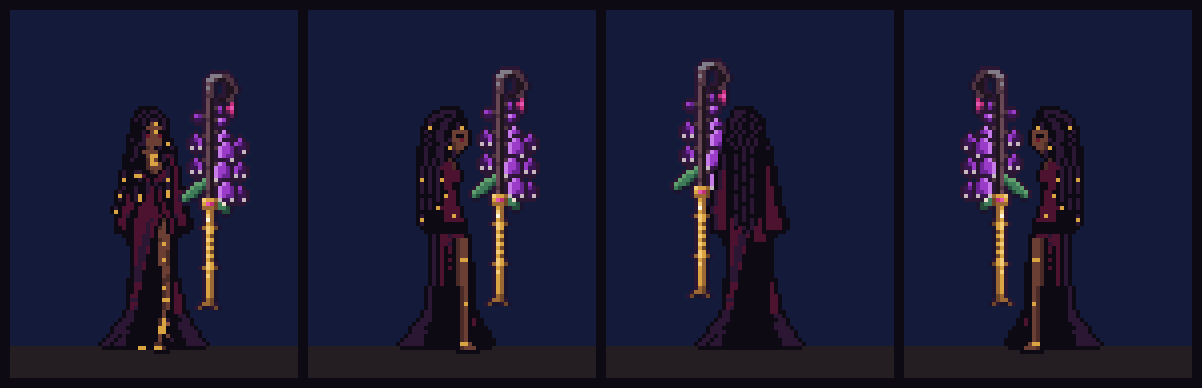
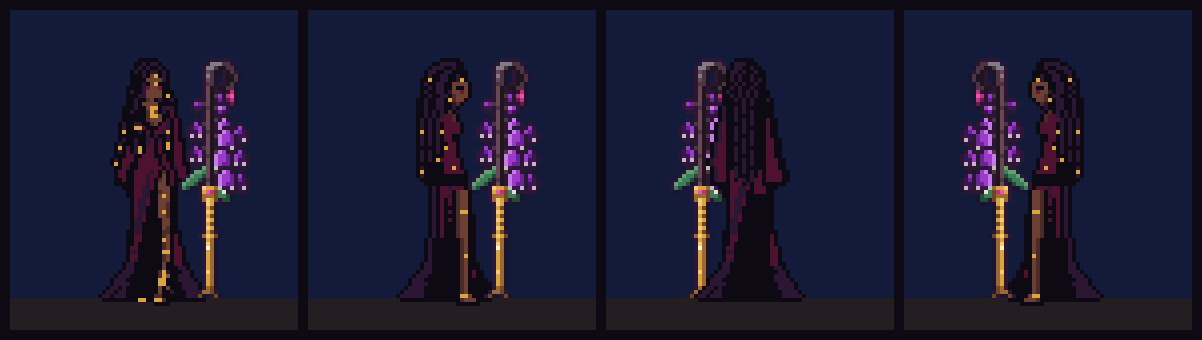
Digitalis: Stab endet auf Kopfhöhe, Wicklung auf Höhe der Hand, Einbau-Hinweise angepasst
Claude-Session: https://claude.ai/code/session_01UowsCnQxmibge4rAa3ATJt

diff --git a/docs/art/item_generators/digitalis.py b/docs/art/item_generators/digitalis.py
@@ -29,6 +29,10 @@ from PIL import Image
 
 W, H = 24, 60
 SX = 10  # linke Spalte des Schafts; Fußpunkt x = SX + 1
+# Golddraht-Wicklung = Stelle der Hand. Der Stab endet oben auf Kopfhöhe der
+# Hexe (62 px über dem Boden, er schwebt also 2 px), dann liegt ihre Hand
+# (ca. 24 bis 28 px über dem Boden) genau auf diesen Zeilen.
+GRIP_TOP, GRIP_BOTTOM = 36, 43
 
 BASE = {
     "o": (43, 22, 51),       # Aubergine (Kontur)
@@ -237,16 +241,16 @@ def draw_staff(tip=0, bloom=0, sparks=False):
     cv.stamp(["hggd",
               "gnmD",
               "dddD"], SX - 1, 32)
-    # Griff aus Gold, in der Mitte mit Golddraht umwickelt
+    # Griff aus Gold; oben, wo die Hand ihn hält, mit Golddraht umwickelt
     for y in range(35, 57):
-        if 40 <= y <= 48:
+        if GRIP_TOP <= y <= GRIP_BOTTOM:
             cv.put(SX, y, "h" if y % 2 == 0 else "g")
             cv.put(SX + 1, y, "g" if y % 2 == 0 else "D")
         else:
             cv.put(SX, y, "g")
             cv.put(SX + 1, y, "d")
-    cv.put(SX, 36, "h"); cv.put(SX, 37, "w"); cv.put(SX, 51, "h")
-    for y in (39, 49):
+    cv.put(SX, GRIP_BOTTOM + 3, "h"); cv.put(SX, GRIP_BOTTOM + 4, "w"); cv.put(SX, 53, "h")
+    for y in (GRIP_TOP - 1, GRIP_BOTTOM + 1):
         cv.put(SX - 1, y, "d"); cv.put(SX, y, "h"); cv.put(SX + 1, y, "g"); cv.put(SX + 2, y, "D")
     # Fuß mit kleinen goldenen Wurzeln
     cv.put(SX, 57, "d"); cv.put(SX + 1, 57, "D")

diff --git a/docs/ASSETS.md b/docs/ASSETS.md
@@ -519,13 +519,15 @@ Der Stab ist ein Fingerhut: Goldgriff mit Golddraht-Wicklung und Magenta-Stein a
 | `digitalis_icon.png` (+`_glow`) | 16×16 | 1 | – | – | Hotbar, Inventar, Grimoire-Raster (schräg, wie ein Werkzeug) |
 
 - **Fußpunkt:** unten Mitte des Schafts, zwischen Pixelspalte 10 und 11, Unterkante des Frames. Mit `centered = true` also `offset = Vector2(1, -30)`, dann steht der Fuß auf dem Ursprung (wie bei der Hexe).
-- **Spitze** (für Licht und Schuss-Startpunkt): Pixel (16, 10) im Frame, also `(5, -50)` relativ zum Fußpunkt.
+- **Spitze** (für Licht und Schuss-Startpunkt): Pixel (16, 10) im Frame, also `(5, -50)` relativ zum Fußpunkt des Stabs.
 - **Glow-Ebene** wie bei Pilzen und Trank-Effekten: zweites `AnimatedSprite2D` darüber, `CanvasItemMaterial` mit `light_mode = Unshaded`, gleiche FPS und gleicher Startframe. Idle: nur die Spitze leuchtet. Angriff: die ganze Traube.
 - 🔮 Vorschlag Licht: `PointLight2D` an der Spitze, Farbe `Color(0.89, 0.35, 0.69)`, `texture_scale` klein (Radius ca. 24 px), `energy` im Idle 0.5–0.65 mit der Pulsfolge, beim Angriff kurz 1.2.
 - Größe: 60 px, also fast so hoch wie die Hexe (64 px). Entscheidung vom 10.10.: dunkler Stängel, Stab fast so hoch wie die Hexe.
-- ✅ **Halten (Entscheidung 10.10.):** Die Hexe führt den großen Stab neben sich, Griff in der Hand, Spitze über dem Kopf, damit man sieht, wie bedeutend Digitalis ist. Keine eigene kurze Fassung. Mockup: `vorschau/vorschau_digitalis_halten_4x.png`.
-  - Griff-Punkt im Frame: Mitte der Golddraht-Wicklung, Pixel (10.5, 44). Er liegt auf der Hand.
-  - Hand relativ zum Fußpunkt der Hexe (ersetzt die Werte für den dünnen Platzhalter in `combat.gd`): unten `(14, -27)`, oben `(-12, -30)`, rechts `(12, -28)`, links `(-12, -28)`. So steht der Stab neben ihr und verdeckt nie das Gesicht; die Spitze ragt ca. 7 px über den Kopf.
+- ✅ **Halten (Entscheidung 10.10.):** Die Hexe führt den großen Stab neben sich, damit man sieht, wie bedeutend Digitalis ist. Keine eigene kurze Fassung. **Stab und Kopf enden auf gleicher Höhe** (62 px über dem Boden). Mockup: `vorschau/vorschau_digitalis_halten_4x.png`.
+  - Der Fuß des Stabs liegt bei **(Hand-x, −2)** relativ zum Fuß der Hexe, der Stab schwebt also 2 px über dem Boden. Die Höhe ist in allen Richtungen gleich.
+  - Hand-x je Richtung (ersetzt die Werte für den dünnen Platzhalter in `combat.gd`): unten `14`, oben `−12`, rechts `12`, links `−12`. So steht der Stab neben ihr und verdeckt nie das Gesicht.
+  - Die Golddraht-Wicklung (Zeilen 36–43 im Frame, 24–17 px über dem Boden) ist die Stelle der Hand.
+  - Spitze relativ zum Fuß der Hexe: (Hand-x + 5, −52).
   - Blick nach links: Stab mit `flip_h = true` (Glocken zeigen nach vorne). Blick nach oben: Stab hinter der Hexe zeichnen (`z_index` bzw. `show_behind_parent`), sonst davor.
   - 🔮 Später: ein kleines Hand-Overlay (schwarze Finger, goldener Armreif) über dem Griff, damit man das Halten auch ohne Arm-Animation sieht.
 - Noch nicht gebaut: Garten-Version („wartet im Garten“), Grimoire-Abbildung groß, weitere Formen (Sickle, Thornwhip, Rootmaul).

diff --git a/docs/design/game_design.md b/docs/design/game_design.md
@@ -176,7 +176,7 @@ Jede Disziplin steigt durch Tun auf. Viele Levelsysteme sind gewollt, und alle l
 | Thornwhip | Reichweite, Gegner heranziehen | Dinge greifen, über Lücken schwingen |
 | Rootmaul | langsam, wuchtig | Steine und Holz zerschlagen |
 
-- ✅ (10.10.) **Grafik und Halten:** Fingerhut-Stab, fast so hoch wie die Hexe (60 px), dunkler Stängel, Goldgriff, lila Traube, Magenta-Spitze (`assets/items/digitalis/`). Die Hexe führt ihn **groß neben sich** (Spitze über dem Kopf), damit man sieht, wie bedeutend er ist. Details: `docs/ASSETS.md`, Abschnitt Digitalis.
+- ✅ (10.10.) **Grafik und Halten:** Fingerhut-Stab, fast so hoch wie die Hexe (60 px), dunkler Stängel, Goldgriff, lila Traube, Magenta-Spitze (`assets/items/digitalis/`). Die Hexe führt ihn **groß neben sich**, Stab und Kopf enden auf gleicher Höhe, damit man sieht, wie bedeutend er ist. Details: `docs/ASSETS.md`, Abschnitt Digitalis.
 - 💡 Neue Formen gibt es über Grimoire-Seiten oder beim Heilen eines Gebiets.
 - 💡 Upgrades macht Gnarl (siehe NPCs).
 
